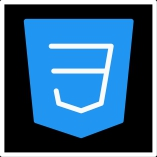
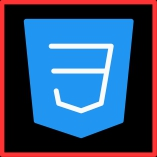
changed colors

Changed region(s): [[0.0, 0.0, 1.0, 1.0]]

diff --git a/src/index.css b/src/index.css
@@ -11,11 +11,11 @@
 }
 :root{
     --color-bg: #000000;
-    --color-bg-variant: #525252;
-    --color-primary: #04d9ff;
-    --color-primary-variant: rgba(0, 15, 97, 0.884);
+    --color-bg-variant: #000000;
+    --color-primary: #FF3333;
+    --color-primary-variant: #CC3333;
     --color-white: #fff;
-    --color-light: #04d9ff;
+    --color-light: #CC3333;
 
     --container-width-lg: 75%;
     --container-width-md: 86%;
@@ -82,7 +82,7 @@ a:hover{
     padding: 0.75rem 1.2rem;
     border-radius: 0.4rem;
     cursor: pointer;
-    border: 1px solid var(--color-primary);
+    border: 1px solid var(--color-light);
     transition: var(--transition);
 
 }

diff --git a/src/components/portfolio/portfolio.css b/src/components/portfolio/portfolio.css
@@ -22,6 +22,9 @@
   border-radius: 1.5rem;
   overflow: hidden;
 }
+#portfolio h2 {
+  color: white;
+}
 
 .portfolio__item h3 {
   margin: 1.2rem 0 2rem;
